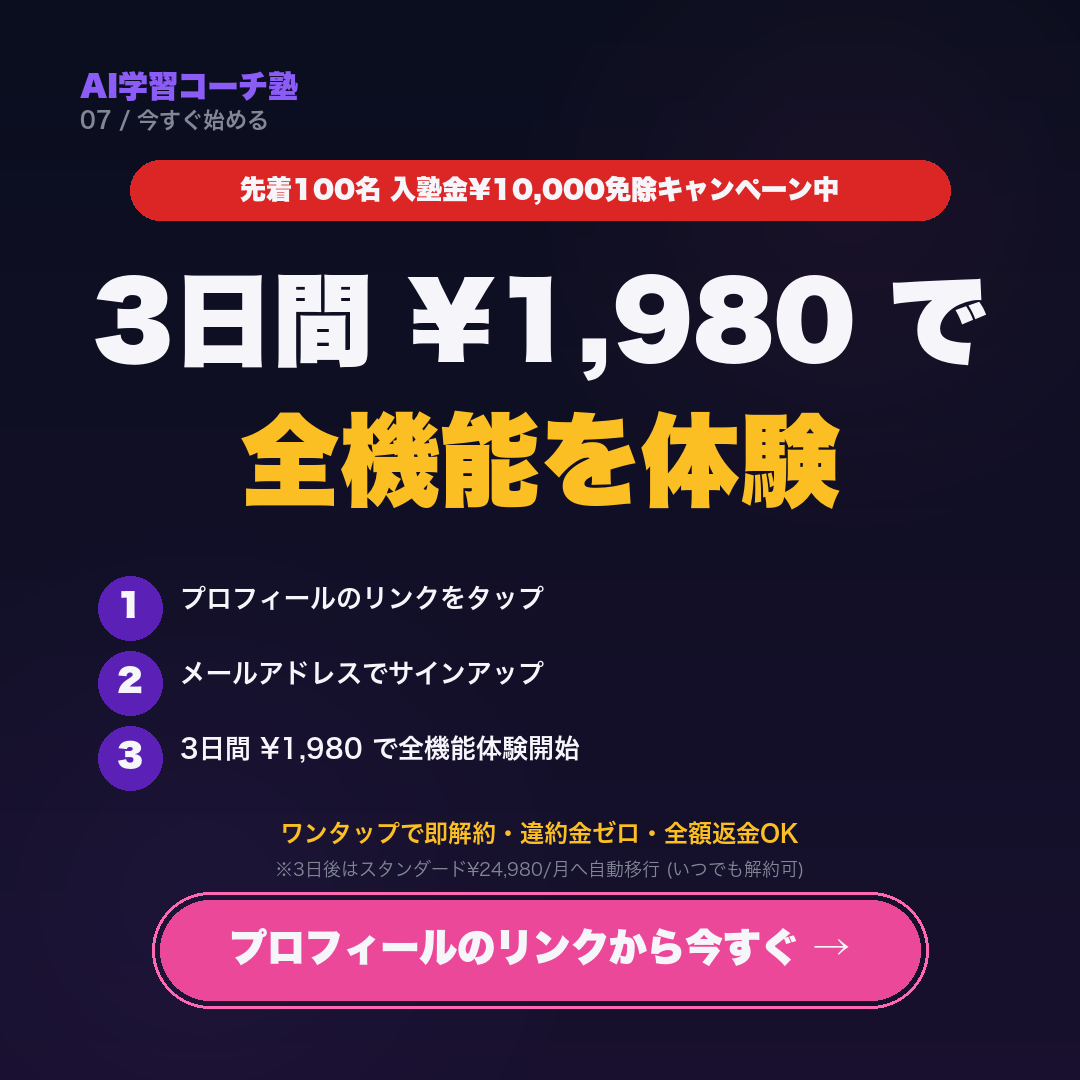
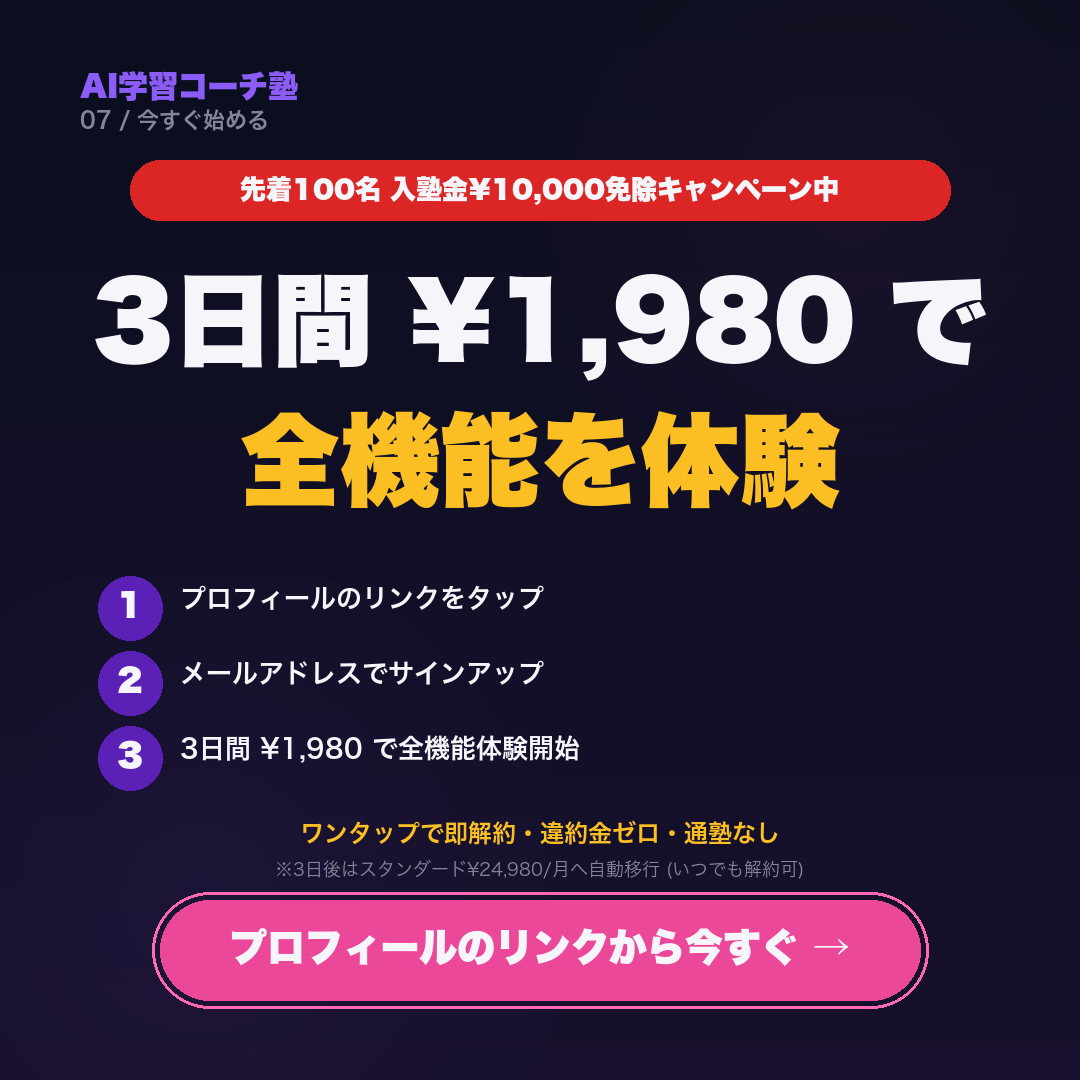
Remove 全額返金 mentions + clarify 家族プラン as 3名まで
【Founder decision】
- 「全額返金」訴求はリスクとして全削除。代わりに「ワンタップ即解約・違約金ゼロ・通塾なし」で安心感を維持
- 家族プランの全言及に「(3名まで)」「兄弟姉妹3名まで」を明示し誤解防止

修正対象:
- generate_ig_sales_slides_v2.py: Slide 6「体験中ワンタップで即解約・違約金ゼロ」、Slide 7「ワンタップで即解約・違約金ゼロ・通塾なし」、家族プラン行に「(兄弟姉妹3名まで)」
- generate_ig_stories.py: 家族プラン関連メッセージも整合
- 画像再生成済み (sales-final-slide-6/7.png, story-1〜3)
- sales-captions-final.md / sales-preview.html: A/B/C 3案・Reels台本から「全額返金OK」全削除
- contract-emails.html: 体験開始ウェルカム・月額移行リマインド・解約完了から「全額返金」削除、解約手続き案内を「違約金ゼロ」のみに
- email-templates.html: 既存生徒向けメールから「全額返金OK」削除

🤖 Generated with [Claude Code](https://claude.com/claude-code)

Changed region(s): [[0.275, 0.7639, 0.7333, 0.7944]]

diff --git a/marketing-assets/contract-emails.html b/marketing-assets/contract-emails.html
@@ -46,7 +46,7 @@
   <strong>📋 共通情報</strong> (各テンプレに自動展開済)<br>
   ・3日間体験: ¥1,980 / スタンダード: ¥24,980/月 / プレミアム: ¥39,800/月<br>
   ・入塾金: ¥10,000 (初回のみ・スタンダード/プレミアム/家族プラン)<br>
-  ・解約: 体験中いつでも・違約金ゼロ・全額返金OK
+  ・解約: 体験中いつでも・違約金ゼロ・通塾なし
 </div>
 
 <!-- Template 1: 体験開始ありがとうメール -->
@@ -85,7 +85,7 @@ URL: https://www.trillion-ai-juku.com/login.html
 ・定期テスト連携・滑り止め校提案
 
 ▼ 体験中の解約について
-ワンタップで即解約可能・違約金ゼロ・全額返金OK
+ワンタップで即解約可能・違約金ゼロ・通塾なし
 3日後はスタンダード ¥24,980/月 + 入塾金 ¥10,000 (初回のみ) へ自動移行します
 継続を希望されない場合は3日以内に解約手続きをお願いします
 
@@ -137,7 +137,7 @@ AI学習コーチ塾</textarea>
 本日中に以下の手順で手続きをお願いします:
   1. https://www.trillion-ai-juku.com/mypage.html へログイン
   2. 「契約管理」→「解約する」をタップ
-  3. 即時解約完了 (違約金ゼロ・3日体験中は全額返金可)
+  3. 即時解約完了 (違約金ゼロ)
 
 ▼ プランの変更をご希望の場合
 プレミアム ¥39,800/月 (全機能無制限) や 家族プラン ¥59,800/月 (3名まで) も
@@ -299,7 +299,7 @@ AI学習コーチ塾</textarea>
    今月の差額のみで本日から無制限ご利用可能
    優先処理 + 保護者向け詳細レポート付き
 
-3) 家族プラン (¥59,800/月) へ変更
+3) 家族プラン (¥59,800/月・兄弟姉妹3名まで) へ変更
    兄弟姉妹3名まで使えて1人あたり¥19,933/月
    全機能無制限
 

diff --git a/marketing-assets/sales-preview.html b/marketing-assets/sales-preview.html
@@ -123,7 +123,7 @@
 
 ✅ スタンダード ¥24,980/月 (同価格帯でも機能段違い)
 ✅ 3日間体験は ¥1,980
-✅ ワンタップで即解約・違約金ゼロ・全額返金OK
+✅ ワンタップで即解約・違約金ゼロ・通塾なし
 ✅ 通塾不要、スマホ1台で完結
 
 3日後はスタンダード¥24,980/月へ自動移行 (入塾金¥10,000 初回のみ加算・いつでも解約可)
@@ -157,7 +157,7 @@
 「定期テスト連携」で学校範囲から自動で問題生成
 
 \\\ 先着100名 入塾金¥10,000免除 (残りわずか) ///
-ワンタップ即解約・全額返金OK・違約金ゼロ
+ワンタップ即解約・違約金ゼロ・通塾なし
 
 👇 プロフィールリンクから30秒で開始
 
@@ -196,7 +196,6 @@
 ▼ 安心の保証
 ・3日間 ¥1,980 で全機能体験
 ・ワンタップで即解約・違約金ゼロ
-・3日体験中は全額返金OK
 ・3日後はスタンダード¥24,980/月へ自動移行 (入塾金¥10,000 初回のみ加算・いつでも解約可)
 
 ━━━━━━━━━━━━━
@@ -284,7 +283,7 @@
 🚨 先着100名 入塾金¥10,000免除 (残りわずか)
 
 👇 プロフィールリンクから30秒で開始
-ワンタップ即解約・全額返金OK
+ワンタップ即解約・違約金ゼロ
 
 ※個人の感想です。3日後はスタンダード¥24,980/月+入塾金¥10,000(初回のみ)。
 

diff --git a/marketing-assets/email-templates.html b/marketing-assets/email-templates.html
@@ -76,7 +76,7 @@ https://www.trillion-ai-juku.com/checkout.html?plan=founder
 ・定期テスト連携 (学校範囲から自動で問題生成)
 ・24時間AIチューター (深夜の質問も即解説)
 
-体験中はワンタップで即解約・全額返金OKです。
+体験中はワンタップで即解約可能です。
 3日後はスタンダード¥24,980/月へ自動移行 (入塾金¥10,000・初回のみ)。
 
 質問あれば返信ください。
@@ -122,7 +122,7 @@ AI学習コーチ塾 塾長の足立です。
 ・3日間体験: ¥1,980 (安心の体験料金)
 ・月額継続: スタンダード ¥24,980/月
 ・入塾金: ¥10,000 (初回のみ)
-・体験中ワンタップで即解約・全額返金可
+・体験中ワンタップで即解約・違約金ゼロ
 
 【先着100名 限定】
 ↓ 体験申込はこちら (30秒で完了)

diff --git a/marketing-assets/generate_ig_sales_slides_v2.py b/marketing-assets/generate_ig_sales_slides_v2.py
@@ -278,7 +278,7 @@ def slide_2():
     f_anchor = load_font(FONT_BLACK, 32)
     draw_centered(draw, "同価格帯でも、機能と時間帯が違う", f_anchor, top_y + col_h + 30, BRAND_GOLD)
     f_anchor2 = load_font(FONT_BOLD, 24)
-    draw_centered(draw, "家族プラン¥59,800なら 1人あたり¥19,933/月", f_anchor2, top_y + col_h + 75, TEXT_DIM)
+    draw_centered(draw, "家族プラン¥59,800 (兄弟姉妹3名まで) → 1人¥19,933/月", f_anchor2, top_y + col_h + 75, TEXT_DIM)
 
     draw_footer_brand(draw)
     img.save(f"{OUT_DIR}/sales-final-slide-2.png", "PNG", optimize=True)
@@ -540,12 +540,12 @@ def slide_6():
     f_safe = load_font(FONT_BLACK, 22)
     draw.text((table_x + 30, row_y), "安心保証", font=f_safe, fill=BRAND_PINK)
     f_safe_desc = load_font(FONT_BOLD, 20)
-    draw.text((table_x + 30, row_y + 30), "体験中ワンタップで即解約・全額返金", font=f_safe_desc, fill=TEXT)
+    draw.text((table_x + 30, row_y + 30), "体験中ワンタップで即解約・違約金ゼロ", font=f_safe_desc, fill=TEXT)
 
     # 家族プラン + 紹介プログラム (まとめて訴求)
     ref_y = 720
     f_ref_h = load_font(FONT_BLACK, 26)
-    draw_centered(draw, "家族プラン¥59,800/月 → 1人あたり¥19,933/月", f_ref_h, ref_y, BRAND_GOLD)
+    draw_centered(draw, "家族プラン¥59,800/月 (兄弟姉妹3名まで) → 1人¥19,933/月", f_ref_h, ref_y, BRAND_GOLD)
     f_ref_h2 = load_font(FONT_BLACK, 24)
     draw_centered(draw, "▼ 友達紹介で あなた1ヶ月無料 + 友達初月50%OFF ▼", f_ref_h2, ref_y + 50, BRAND_PINK)
 
@@ -597,7 +597,7 @@ def slide_7():
     # リスクリバーサル (文言強化: 心理戦略家)
     f_safe = load_font(FONT_BOLD, 24)
     safe_y = 820
-    draw_centered(draw, "ワンタップで即解約・違約金ゼロ・全額返金OK", f_safe, safe_y, BRAND_GOLD)
+    draw_centered(draw, "ワンタップで即解約・違約金ゼロ・通塾なし", f_safe, safe_y, BRAND_GOLD)
 
     # 自動切替明示 (信頼担保: 心理戦略家)
     f_auto = load_font(FONT_REGULAR, 18)

diff --git a/marketing-assets/sales-captions-final.md b/marketing-assets/sales-captions-final.md
@@ -51,7 +51,7 @@
 ✅ スタンダード¥24,980/月 (同価格帯でも機能段違い)
 ✅ 入塾金¥10,000 (初回のみ・体験後の初回請求に加算)
 ✅ 3日間体験は ¥1,980
-✅ ワンタップで即解約・違約金ゼロ・全額返金OK
+✅ ワンタップで即解約・違約金ゼロ・通塾なし
 ✅ 通塾不要、スマホ1台で完結
 
 3日後はスタンダード¥24,980/月へ自動移行 (いつでも解約可)
@@ -87,7 +87,7 @@
 「定期テスト連携」で学校範囲から自動で問題生成
 
 \\\ 先着100名 入塾金¥10,000免除 (残りわずか) ///
-ワンタップ即解約・全額返金OK・違約金ゼロ
+ワンタップ即解約・違約金ゼロ・通塾なし
 
 👇 プロフィールリンクから30秒で開始
 
@@ -128,7 +128,6 @@
 ▼ 安心の保証
 ・3日間 ¥1,980 で全機能体験
 ・ワンタップで即解約・違約金ゼロ
-・3日体験中は全額返金OK
 ・3日後はスタンダード¥24,980/月へ自動移行 (いつでも解約可)
 ・入塾金¥10,000 (初回のみ・体験後の初回請求に加算)
 
@@ -215,7 +214,7 @@
 🚨 先着100名 入塾金¥10,000免除 (残りわずか)
 
 👇 プロフィールリンクから30秒で開始
-ワンタップ即解約・全額返金OK
+ワンタップ即解約・違約金ゼロ
 
 ※個人の感想です。3日後はスタンダード¥24,980/月。
 
